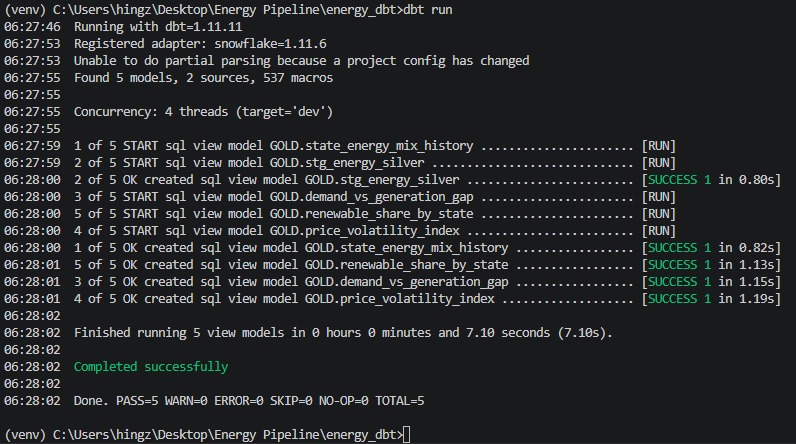
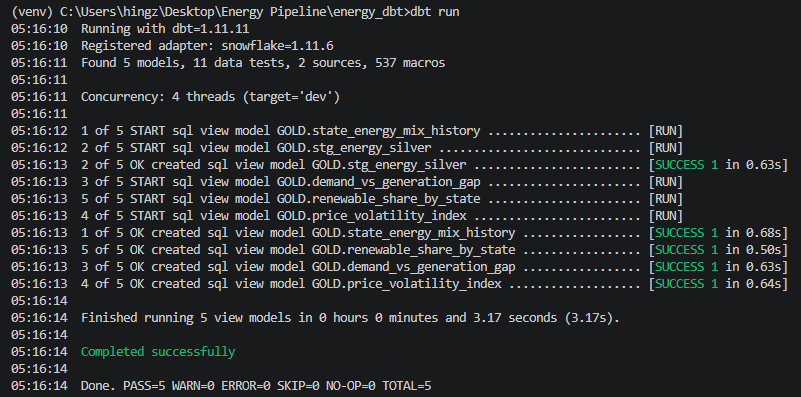
Add GitHub Actions CI, run_pipeline.py, dbt schema tests, expand dataset to 110,834 records

Changed region(s): [[0.0, 0.0, 0.995, 1.0]]

diff --git a/ingestion/fetch_energy.py b/ingestion/fetch_energy.py
@@ -1,4 +1,3 @@
-# ingestion/fetch_energy.py
 import requests
 import json
 import os
@@ -10,107 +9,149 @@ load_dotenv()
 EIA_API_KEY = os.getenv("EIA_API_KEY")
 BASE_URL = "https://api.eia.gov/v2"
 
-def fetch_electricity_generation(start: str = "2020-01", end: str = "2024-12") -> list[dict]:
-    """Monthly electricity generation by state and fuel type (MWh)"""
+def fetch_electricity_generation(start: str = "2015-01", end: str = "2024-12") -> list[dict]:
     url = f"{BASE_URL}/electricity/electric-power-operational-data/data/"
-    params = {
-        "api_key": EIA_API_KEY,
-        "frequency": "monthly",
-        "data[0]": "generation",
-        "facets[fueltypeid][]": ["COL", "NG", "NUC", "SUN", "WND", "HYC"],
-        "start": start,
-        "end": end,
-        "sort[0][column]": "period",
-        "sort[0][direction]": "desc",
-        "offset": 0,
-        "length": 5000
-    }
-    resp = requests.get(url, params=params)
-    resp.raise_for_status()
-    raw = resp.json().get("response", {}).get("data", [])
     results = []
-    for row in raw:
-        results.append({
-            "source": "eia_electricity",
-            "series_id": f"elec_{row.get('location')}_{row.get('fueltypeid')}",
-            "period": row.get("period"),
-            "state": row.get("location"),
-            "fuel_type": row.get("fueltypeid"),
-            "metric": "generation_mwh",
-            "value": row.get("generation"),
-            "unit": "MWh",
-            "ingested_at": datetime.now(timezone.utc).isoformat()
-        })
-    print(f"Electricity generation: {len(results)} records fetched")
+    offset = 0
+
+    while True:
+        params = {
+            "api_key": EIA_API_KEY,
+            "frequency": "monthly",
+            "data[0]": "generation",
+            "facets[fueltypeid][]": ["COL", "NG", "NUC", "SUN", "WND", "HYC"],
+            "start": start,
+            "end": end,
+            "sort[0][column]": "period",
+            "sort[0][direction]": "desc",
+            "offset": offset,
+            "length": 5000
+        }
+        resp = requests.get(url, params=params)
+        resp.raise_for_status()
+        data = resp.json().get("response", {}).get("data", [])
+
+        if not data:
+            break
+
+        for row in data:
+            results.append({
+                "source": "eia_electricity",
+                "series_id": f"elec_{row.get('location')}_{row.get('fueltypeid')}",
+                "period": row.get("period"),
+                "state": row.get("location"),
+                "fuel_type": row.get("fueltypeid"),
+                "metric": "generation_mwh",
+                "value": row.get("generation"),
+                "unit": "MWh",
+                "ingested_at": datetime.now(timezone.utc).isoformat()
+            })
+
+        print(f"  Electricity offset {offset}: {len(data)} records")
+
+        if len(data) < 5000:
+            break
+
+        offset += 5000
+
+    print(f"Electricity generation total: {len(results)} records fetched")
     return results
 
 
-def fetch_natural_gas_prices(start: str = "2020-01", end: str = "2024-12") -> list[dict]:
-    """Monthly natural gas citygate prices by state ($/MCF)"""
+def fetch_natural_gas_prices(start: str = "2015-01", end: str = "2024-12") -> list[dict]:
     url = f"{BASE_URL}/natural-gas/pri/sum/data/"
-    params = {
-        "api_key": EIA_API_KEY,
-        "frequency": "monthly",
-        "data[0]": "value",
-        "start": start,
-        "end": end,
-        "sort[0][column]": "period",
-        "sort[0][direction]": "desc",
-        "offset": 0,
-        "length": 5000
-    }
-    resp = requests.get(url, params=params)
-    resp.raise_for_status()
-    raw = resp.json().get("response", {}).get("data", [])
     results = []
-    for row in raw:
-        results.append({
-            "source": "eia_natural_gas",
-            "series_id": f"ng_{row.get('duoarea')}_{row.get('process')}",
-            "period": row.get("period"),
-            "state": row.get("duoarea"),
-            "fuel_type": "NG",
-            "metric": "price_per_mcf",
-            "value": row.get("value"),
-            "unit": "$/MCF",
-            "ingested_at": datetime.now(timezone.utc).isoformat()
-        })
-    print(f"Natural gas prices: {len(results)} records fetched")
+    offset = 0
+
+    while True:
+        params = {
+            "api_key": EIA_API_KEY,
+            "frequency": "monthly",
+            "data[0]": "value",
+            "start": start,
+            "end": end,
+            "sort[0][column]": "period",
+            "sort[0][direction]": "desc",
+            "offset": offset,
+            "length": 5000
+        }
+        resp = requests.get(url, params=params)
+        resp.raise_for_status()
+        data = resp.json().get("response", {}).get("data", [])
+
+        if not data:
+            break
+
+        for row in data:
+            results.append({
+                "source": "eia_natural_gas",
+                "series_id": f"ng_{row.get('duoarea')}_{row.get('process')}",
+                "period": row.get("period"),
+                "state": row.get("duoarea"),
+                "fuel_type": "NG",
+                "metric": "price_per_mcf",
+                "value": row.get("value"),
+                "unit": "$/MCF",
+                "ingested_at": datetime.now(timezone.utc).isoformat()
+            })
+
+        print(f"  Natural gas offset {offset}: {len(data)} records")
+
+        if len(data) < 5000:
+            break
+
+        offset += 5000
+
+    print(f"Natural gas prices total: {len(results)} records fetched")
     return results
 
 
-def fetch_renewable_generation(start: str = "2020-01", end: str = "2024-12") -> list[dict]:
-    """Monthly renewable energy generation by state (MWh)"""
+def fetch_renewable_generation(start: str = "2015-01", end: str = "2024-12") -> list[dict]:
     url = f"{BASE_URL}/electricity/electric-power-operational-data/data/"
-    params = {
-        "api_key": EIA_API_KEY,
-        "frequency": "monthly",
-        "data[0]": "generation",
-        "facets[fueltypeid][]": ["SUN", "WND", "HYC"],
-        "start": start,
-        "end": end,
-        "sort[0][column]": "period",
-        "sort[0][direction]": "desc",
-        "offset": 0,
-        "length": 5000
-    }
-    resp = requests.get(url, params=params)
-    resp.raise_for_status()
-    raw = resp.json().get("response", {}).get("data", [])
     results = []
-    for row in raw:
-        results.append({
-            "source": "eia_renewable",
-            "series_id": f"renew_{row.get('location')}_{row.get('fueltypeid')}",
-            "period": row.get("period"),
-            "state": row.get("location"),
-            "fuel_type": row.get("fueltypeid"),
-            "metric": "generation_mwh",
-            "value": row.get("generation"),
-            "unit": "MWh",
-            "ingested_at": datetime.now(timezone.utc).isoformat()
-        })
-    print(f"Renewable generation: {len(results)} records fetched")
+    offset = 0
+
+    while True:
+        params = {
+            "api_key": EIA_API_KEY,
+            "frequency": "monthly",
+            "data[0]": "generation",
+            "facets[fueltypeid][]": ["SUN", "WND", "HYC"],
+            "start": start,
+            "end": end,
+            "sort[0][column]": "period",
+            "sort[0][direction]": "desc",
+            "offset": offset,
+            "length": 5000
+        }
+        resp = requests.get(url, params=params)
+        resp.raise_for_status()
+        data = resp.json().get("response", {}).get("data", [])
+
+        if not data:
+            break
+
+        for row in data:
+            results.append({
+                "source": "eia_renewable",
+                "series_id": f"renew_{row.get('location')}_{row.get('fueltypeid')}",
+                "period": row.get("period"),
+                "state": row.get("location"),
+                "fuel_type": row.get("fueltypeid"),
+                "metric": "generation_mwh",
+                "value": row.get("generation"),
+                "unit": "MWh",
+                "ingested_at": datetime.now(timezone.utc).isoformat()
+            })
+
+        print(f"  Renewable offset {offset}: {len(data)} records")
+
+        if len(data) < 5000:
+            break
+
+        offset += 5000
+
+    print(f"Renewable generation total: {len(results)} records fetched")
     return results
 
 

diff --git a/run_pipeline.py b/run_pipeline.py
@@ -1,0 +1,34 @@
+import subprocess
+import sys
+import os
+
+def run(command, description):
+    print(f"\n{'='*60}")
+    print(f"STEP: {description}")
+    print(f"{'='*60}")
+    result = subprocess.run(command, shell=True)
+    if result.returncode != 0:
+        print(f"\nFAILED: {description}")
+        sys.exit(1)
+    print(f"DONE: {description}")
+
+def main():
+    # make sure we're in project root
+    os.chdir(os.path.dirname(os.path.abspath(__file__)))
+
+    run("python ingestion/fetch_energy.py", "Fetching EIA data from API")
+    run("python kafka/producer.py", "Publishing records to Kafka")
+    run("python kafka/consumer.py", "Consuming from Kafka to Bronze Delta Lake")
+    run("python silver/transform.py", "Cleaning + LLM enrichment to Silver Delta Lake")
+    run("python snowflake/load_silver.py", "Loading Silver to Snowflake")
+    run("cd energy_dbt && dbt run", "Building dbt Gold models")
+    run("cd energy_dbt && dbt test", "Running dbt tests")
+    run("cd .. && python great_expectations/validate_bronze.py", "Validating Bronze layer")
+    run("python great_expectations/validate_silver.py", "Validating Silver layer")
+
+    print(f"\n{'='*60}")
+    print("PIPELINE COMPLETE -- all steps passed successfully")
+    print(f"{'='*60}")
+
+if __name__ == "__main__":
+    main()